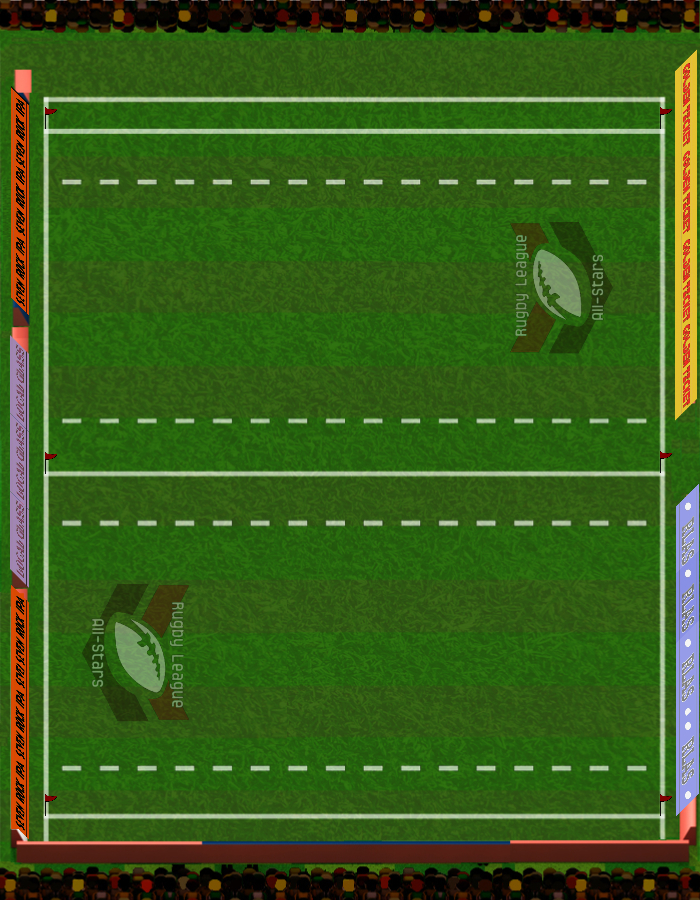
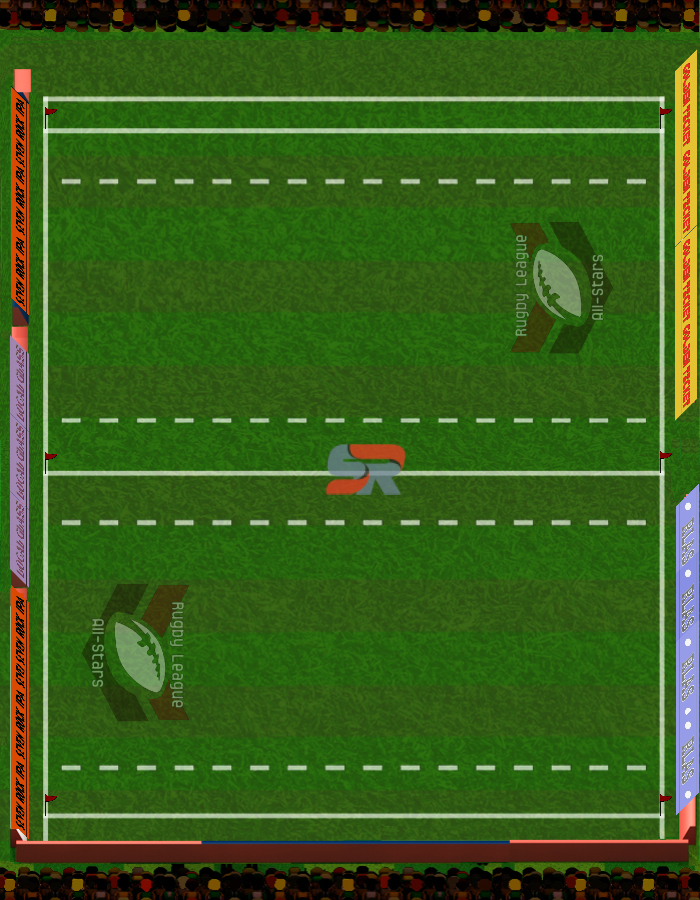
SRUpdates
SRUpdates

diff --git a/RLAS.html b/RLAS.html
@@ -41,33 +41,10 @@
             <img id="logo" src="images/logo.png" alt="Rugby League All-Stars" />
         </div>
 		
-        <nav class="navbar navbar-inverse">
-            <div class="container-fluid">
-                <div class="navbar-header">
-                    <button type="button" class="navbar-toggle" data-toggle="collapse" data-target="#myNavbar"></button>
-                </div>
-                
-				<div class="collapse navbar-collapse" id="myNavbar">
-                    <ul class="nav navbar-nav">
-                        <li class="active"><a href="#">Main Menu</a>
-                        </li>
-                        <li><a href="#">About</a>
-                        </li>
-                        <li><a href="#">Stats</a>
-                        </li>
-                        <li><a href="#">Contact</a>
-                        </li>
-                    </ul>
-                    <ul class="nav navbar-nav navbar-right">
-                        <li><a href="#"></span>Login</a>
-                        </li>
-                    </ul>
-                </div>
-            
-			</div>
-        </nav>
-
-        <br/>
+      
+		<div class="jumbotron" style="text-align : center; padding-top: 10px; padding-bottom: 10px;">
+		<a href="http://sportsrush.co.uk" target="_blank"> <img style="align : centre;" src="http://sportsrush.co.uk/sites/sportsrush/files/logo_Nav_Horizontal_color.png"></img> - Visit our sponsor </a>
+		</div>		
 
 
         <div class="container" style="background: white;">
@@ -82,7 +59,7 @@
 			 <table style="border-top: 1px solid #ddd0 !important;" class="StartingLineUps table hover text-center" id="StartingLineup">
 					<thead>
 						<tr>
-							<th class="text-center">Tonights Matchup</th>
+							<th class="text-center">Tonights Matchup - Sponsored By SportsRush.co.uk</th>
 						</tr> 
 					</thead>
 					<tbody>
@@ -146,13 +123,13 @@
 					
 					<tr>
                         <th class="text-center">Name</th>
-						<th class="text-center">Trys</th>
-						<th class="text-center">Tackles</th>
+						<th class="text-center" ng-click="sorterFunc = sorterFuncT;">Trys</th>
+						<th class="text-center" ng-click="sorterFunc = sorterFuncTk;">Tackles</th>
 						<th class="text-center">Team</th>
                     </tr> 
                 </thead>
                 <tbody>
-				    <tr ng-repeat="x in teamsJSON | orderBy : sorterFuncT:true | limitTo : 10 "  ng-if="x.Trys > 2"  style="border-top: 1px solid #ddd0 !important;">
+				    <tr ng-repeat="x in teamsJSON | orderBy : sorterFunc:true | limitTo : 10 "  ng-if="x.Tackles > 0"  style="border-top: 1px solid #ddd0 !important;">
 						<td>{{x.Name}}</td>
 						<td>{{x.Trys}}</td>
 						<td>{{x.Tackles}}</td>
@@ -919,8 +896,9 @@
 			
 			for (var i = 0; i < $scope.teamsJSON.length; i++) {			
 			$scope.teamListArray[x].push($scope.teamsJSON[i]);
-			if ((i == 10) || (i == 21 ) || (i == 32) || (i == 43) || (i == 54) || (i == 65) || (i == 76))
-		//	|| (i == 87 ) || (i == 98) || (i == 109) || (i == 120) || (i == 131) || (i == 142)
+			if ((i == 10) || (i == 21 ) || (i == 32) || (i == 43) || (i == 54) || (i == 65) || (i == 76)
+			|| (i == 87 ) || (i == 98) || (i == 109) || (i == 120))
+		//		 || (i == 131) || (i == 142)
 		//	|| (i == 153 ) || (i == 164) || (i == 175) || (i == 186) || (i == 197) || (i == 208))
 			{	x++; $scope.teamListArray[x] = [];	}   
 		 }
@@ -948,9 +926,21 @@
 			
 		}
 		
-		$scope.sorterFuncT = function(teamsJSON){
+		
+	// sorterFuncTion
+	
+			$scope.sorterFuncT = function(teamsJSON){
 			return parseInt(teamsJSON.Trys);
 		}
+		
+			$scope.sorterFuncTk = function(teamsJSON){
+			return parseInt(teamsJSON.Tackles);
+		}
+		
+		$scope.sorterFunc = $scope.sorterFuncT;
+		
+	// End sorterFuncTion
+		
 		
 		$scope.addTeam = function(index) {
 			

diff --git a/mobile.html b/mobile.html
@@ -151,13 +151,13 @@
 					
 					<tr>
                         <th class="text-center">Name</th>
-						<th class="text-center">Trys</th>
-						<th class="text-center">Tackles</th>
+						<th class="text-center" ng-click="sorterFunc = sorterFuncT;">Trys</th>
+						<th class="text-center" ng-click="sorterFunc = sorterFuncTk;">Tackles</th>
 						<th class="text-center">Team</th>
                     </tr> 
                 </thead>
                 <tbody>
-				    <tr ng-repeat="x in teamsJSON | orderBy : sorterFuncT:true | limitTo : 10 "  ng-if="x.Trys > 2"  style="border-top: 1px solid #ddd0 !important;">
+				    <tr ng-repeat="x in teamsJSON | orderBy : sorterFunc:true | limitTo : 10 "  ng-if="x.Tackles > 0"  style="border-top: 1px solid #ddd0 !important;">
 						<td>{{x.Name}}</td>
 						<td>{{x.Trys}}</td>
 						<td>{{x.Tackles}}</td>
@@ -924,8 +924,9 @@
 			
 			for (var i = 0; i < $scope.teamsJSON.length; i++) {			
 			$scope.teamListArray[x].push($scope.teamsJSON[i]);
-			if ((i == 10) || (i == 21 ) || (i == 32) || (i == 43) || (i == 54) || (i == 65) || (i == 76))
-		//	|| (i == 87 ) || (i == 98) || (i == 109) || (i == 120) || (i == 131) || (i == 142)
+			if ((i == 10) || (i == 21 ) || (i == 32) || (i == 43) || (i == 54) || (i == 65) || (i == 76)
+			|| (i == 87 ) || (i == 98) || (i == 109) || (i == 120))
+		//			 || (i == 131) || (i == 142)
 		//	|| (i == 153 ) || (i == 164) || (i == 175) || (i == 186) || (i == 197) || (i == 208))
 			{	x++; $scope.teamListArray[x] = [];	}   
 			
@@ -954,6 +955,20 @@
 			}
 			
 		}
+		
+		// sorterFuncTion
+	
+			$scope.sorterFuncT = function(teamsJSON){
+			return parseInt(teamsJSON.Trys);
+		}
+		
+			$scope.sorterFuncTk = function(teamsJSON){
+			return parseInt(teamsJSON.Tackles);
+		}
+		
+		$scope.sorterFunc = $scope.sorterFuncT;
+		
+	// End sorterFuncTion
 		
 		$scope.addTeam = function(index) {
 			

diff --git a/js/sprite.js b/js/sprite.js
@@ -30,7 +30,22 @@ var	loadPlayerSpriteN = function (teamName) {
 				break;			
 			case "Oldham '88":
 				return "sprites/NorthImageSpriteOLDH.png";
-				break;				
+				break;
+			case "Kangaroos '82":
+				return "sprites/NorthImageSpriteAK82.png";
+				break;			
+			case "GB Lions '92":
+				return "sprites/NorthImageSpriteGB92.png";
+				break;		
+			case "South Sydney":
+				return "sprites/NorthImageSpriteSSRB.png";
+				break;		
+			case "Salford":
+				return "sprites/NorthImageSpriteSALF.png";
+				break;
+			case "France '54":
+				return "sprites/NorthImageSpriteFR54.png";
+				break;			
 		}
 	
 }
@@ -65,7 +80,22 @@ var	loadPlayerSpriteS = function (teamName) {
 				break;	
 			case "Oldham '88":
 				return "sprites/SouthImageSpriteOLDH.png";
-				break;			
+				break;
+			case "Kangaroos '82":
+				return "sprites/SouthImageSpriteAK82.png";
+				break;	
+			case "GB Lions '92":
+				return "sprites/SouthImageSpriteGB92.png";
+				break;	
+			case "South Sydney":
+				return "sprites/SouthImageSpriteQLDI.png";
+				break;
+			case "Salford":
+				return "sprites/SouthImageSpriteSALF.png";
+				break;
+			case "France '54":
+				return "sprites/SouthImageSpriteFR54.png";
+				break;				
 		}
 	
 }

diff --git a/js/game.js b/js/game.js
@@ -581,7 +581,7 @@ canvas.onmousedown = function(e) {
   target.y = pageY;
 
   // on mouse down we set the targets of the user players
-  //defensive positions
+  //defensive positions man on man to be inserted df44
 
   mTargetx = pageX;
   mTargety = pageY;
@@ -1199,6 +1199,15 @@ if (NorthOnside < 110) {
   mTargety5 = ball.y - 130;
   mTargety6 = ball.y - 130;
  }
+ 
+  if (PTB == 1 && ball.team == 2) {
+  mTargety = ball.y - 100;
+  mTargety2 = ball.y - 110;
+  mTargety3 = ball.y - 110;
+  mTargety4 = ball.y - 110;
+  mTargety5 = ball.y - 130;
+  mTargety6 = ball.y - 330;
+ }
 
  //lock the player with the ball
 
@@ -1507,6 +1516,14 @@ function endGame() {
   tackleCount = 0;
  }
 
+ if (score > scoreSouth) {
+	 send();
+ }
+ 
+ if (score < scoreSouth) {
+	 sendLoss();
+ }
+ 
  if (init == 1) {
   time = 0;
  }

diff --git a/css/style.css b/css/style.css
@@ -100,7 +100,7 @@
   .BigScreen {
     color: #FFB300;
     font-family: 'BigScreen', Arial, sans-serif;
-    background-image: url(' http://rlicoach.com/wp-content/uploads/2015/09/BigScreen.png');
+    background-image: url(' ../images/BigScreen.png');
     background-repeat: no-repeat;
     /* background-attachment: fixed; */
     background-position: center;
